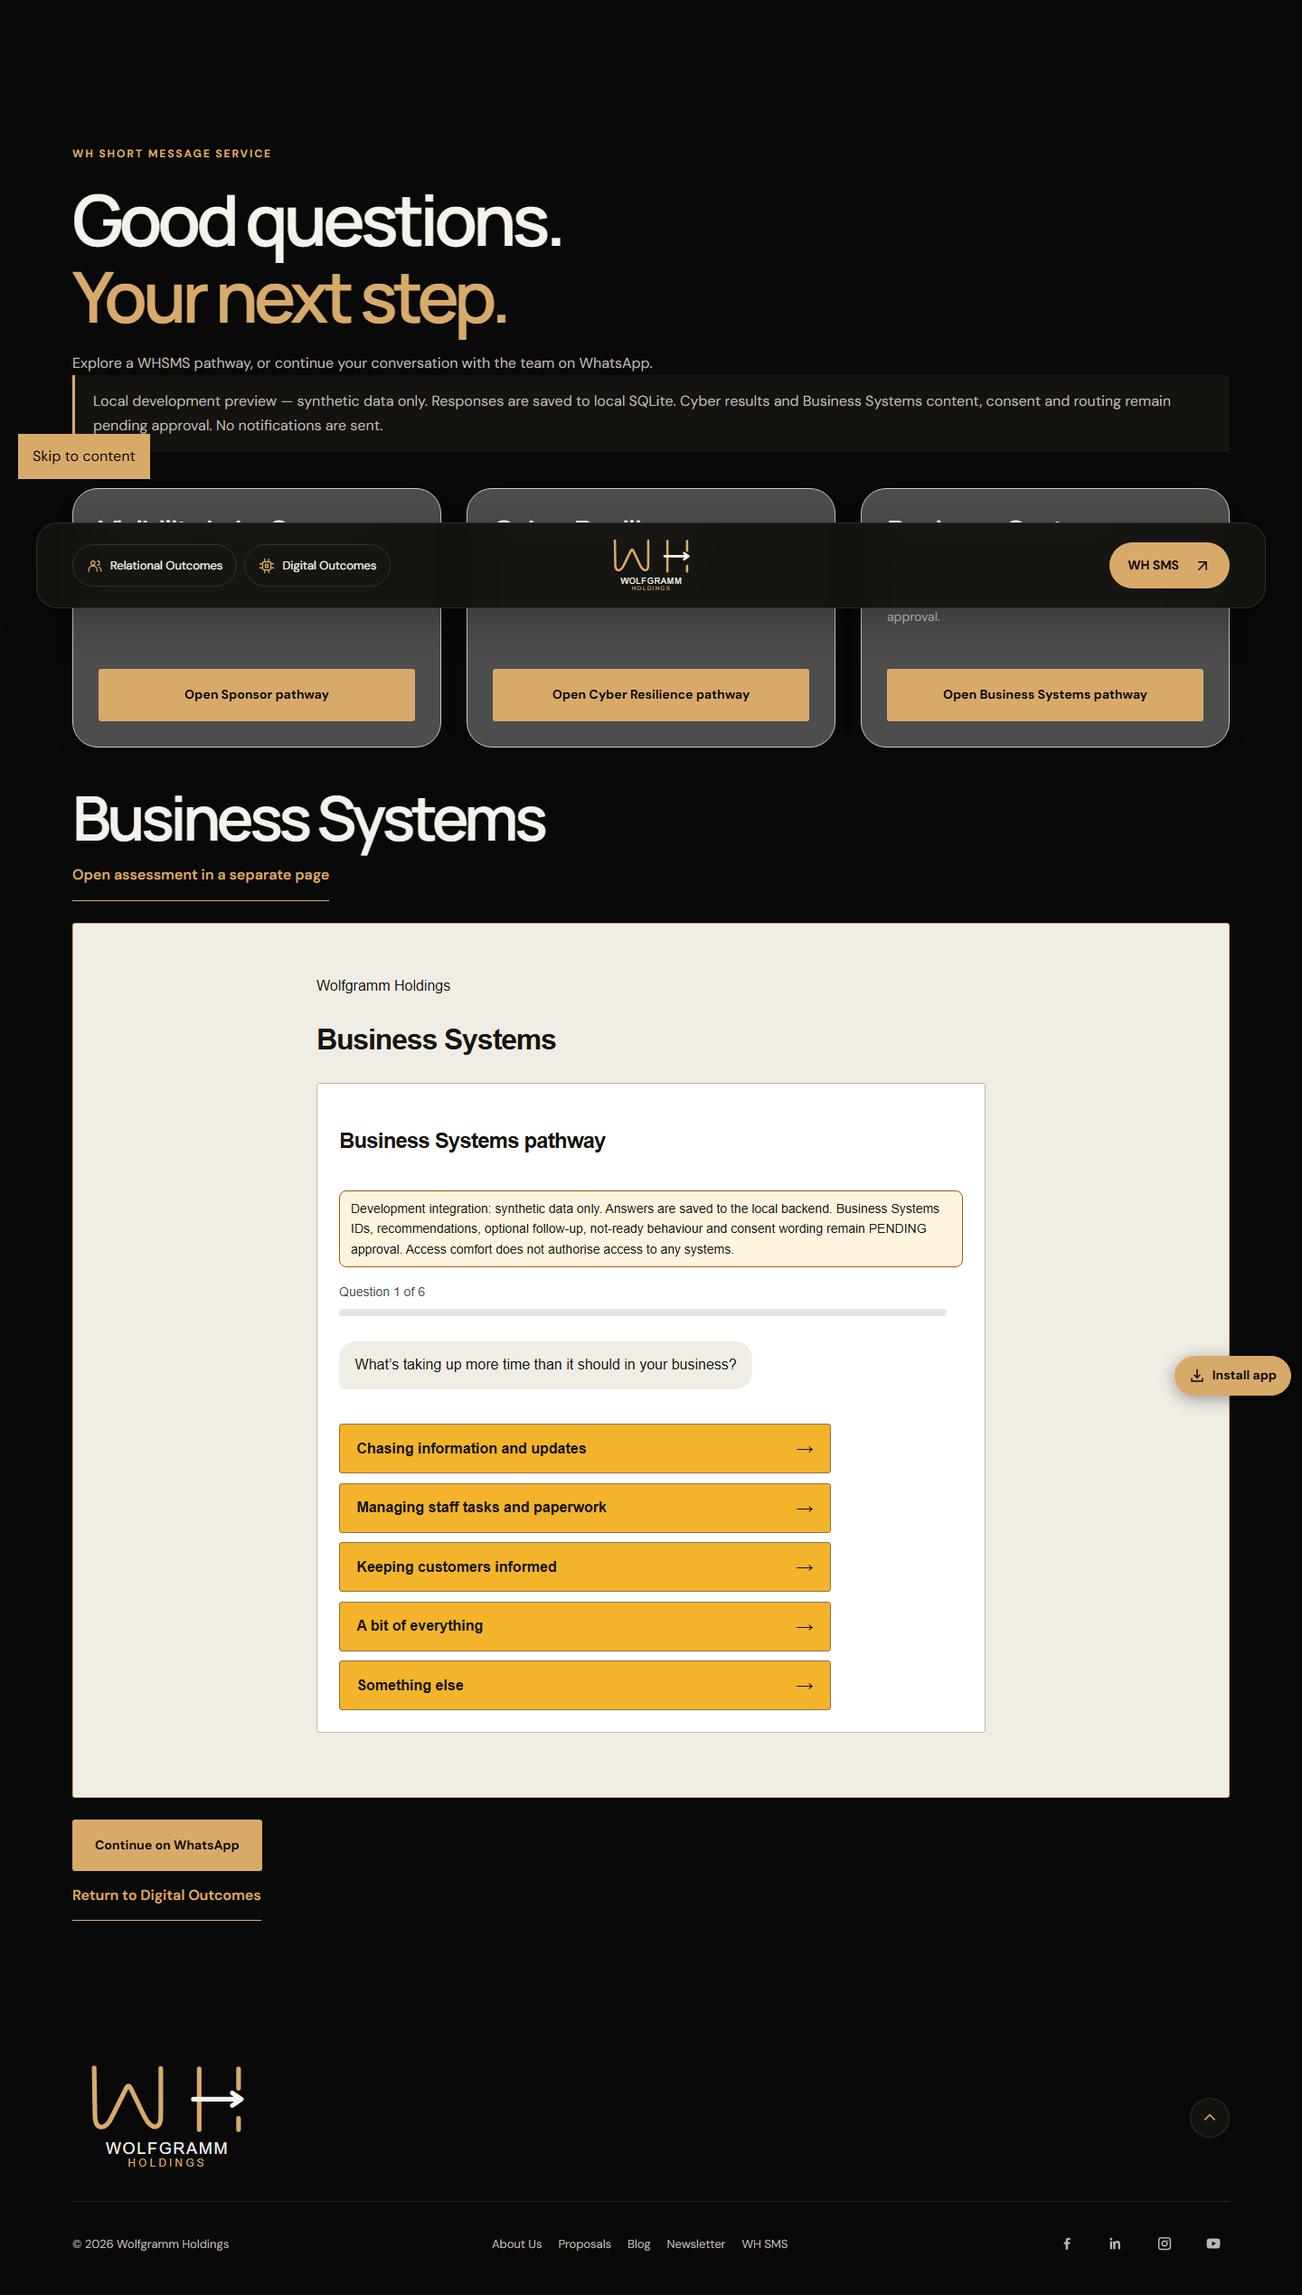
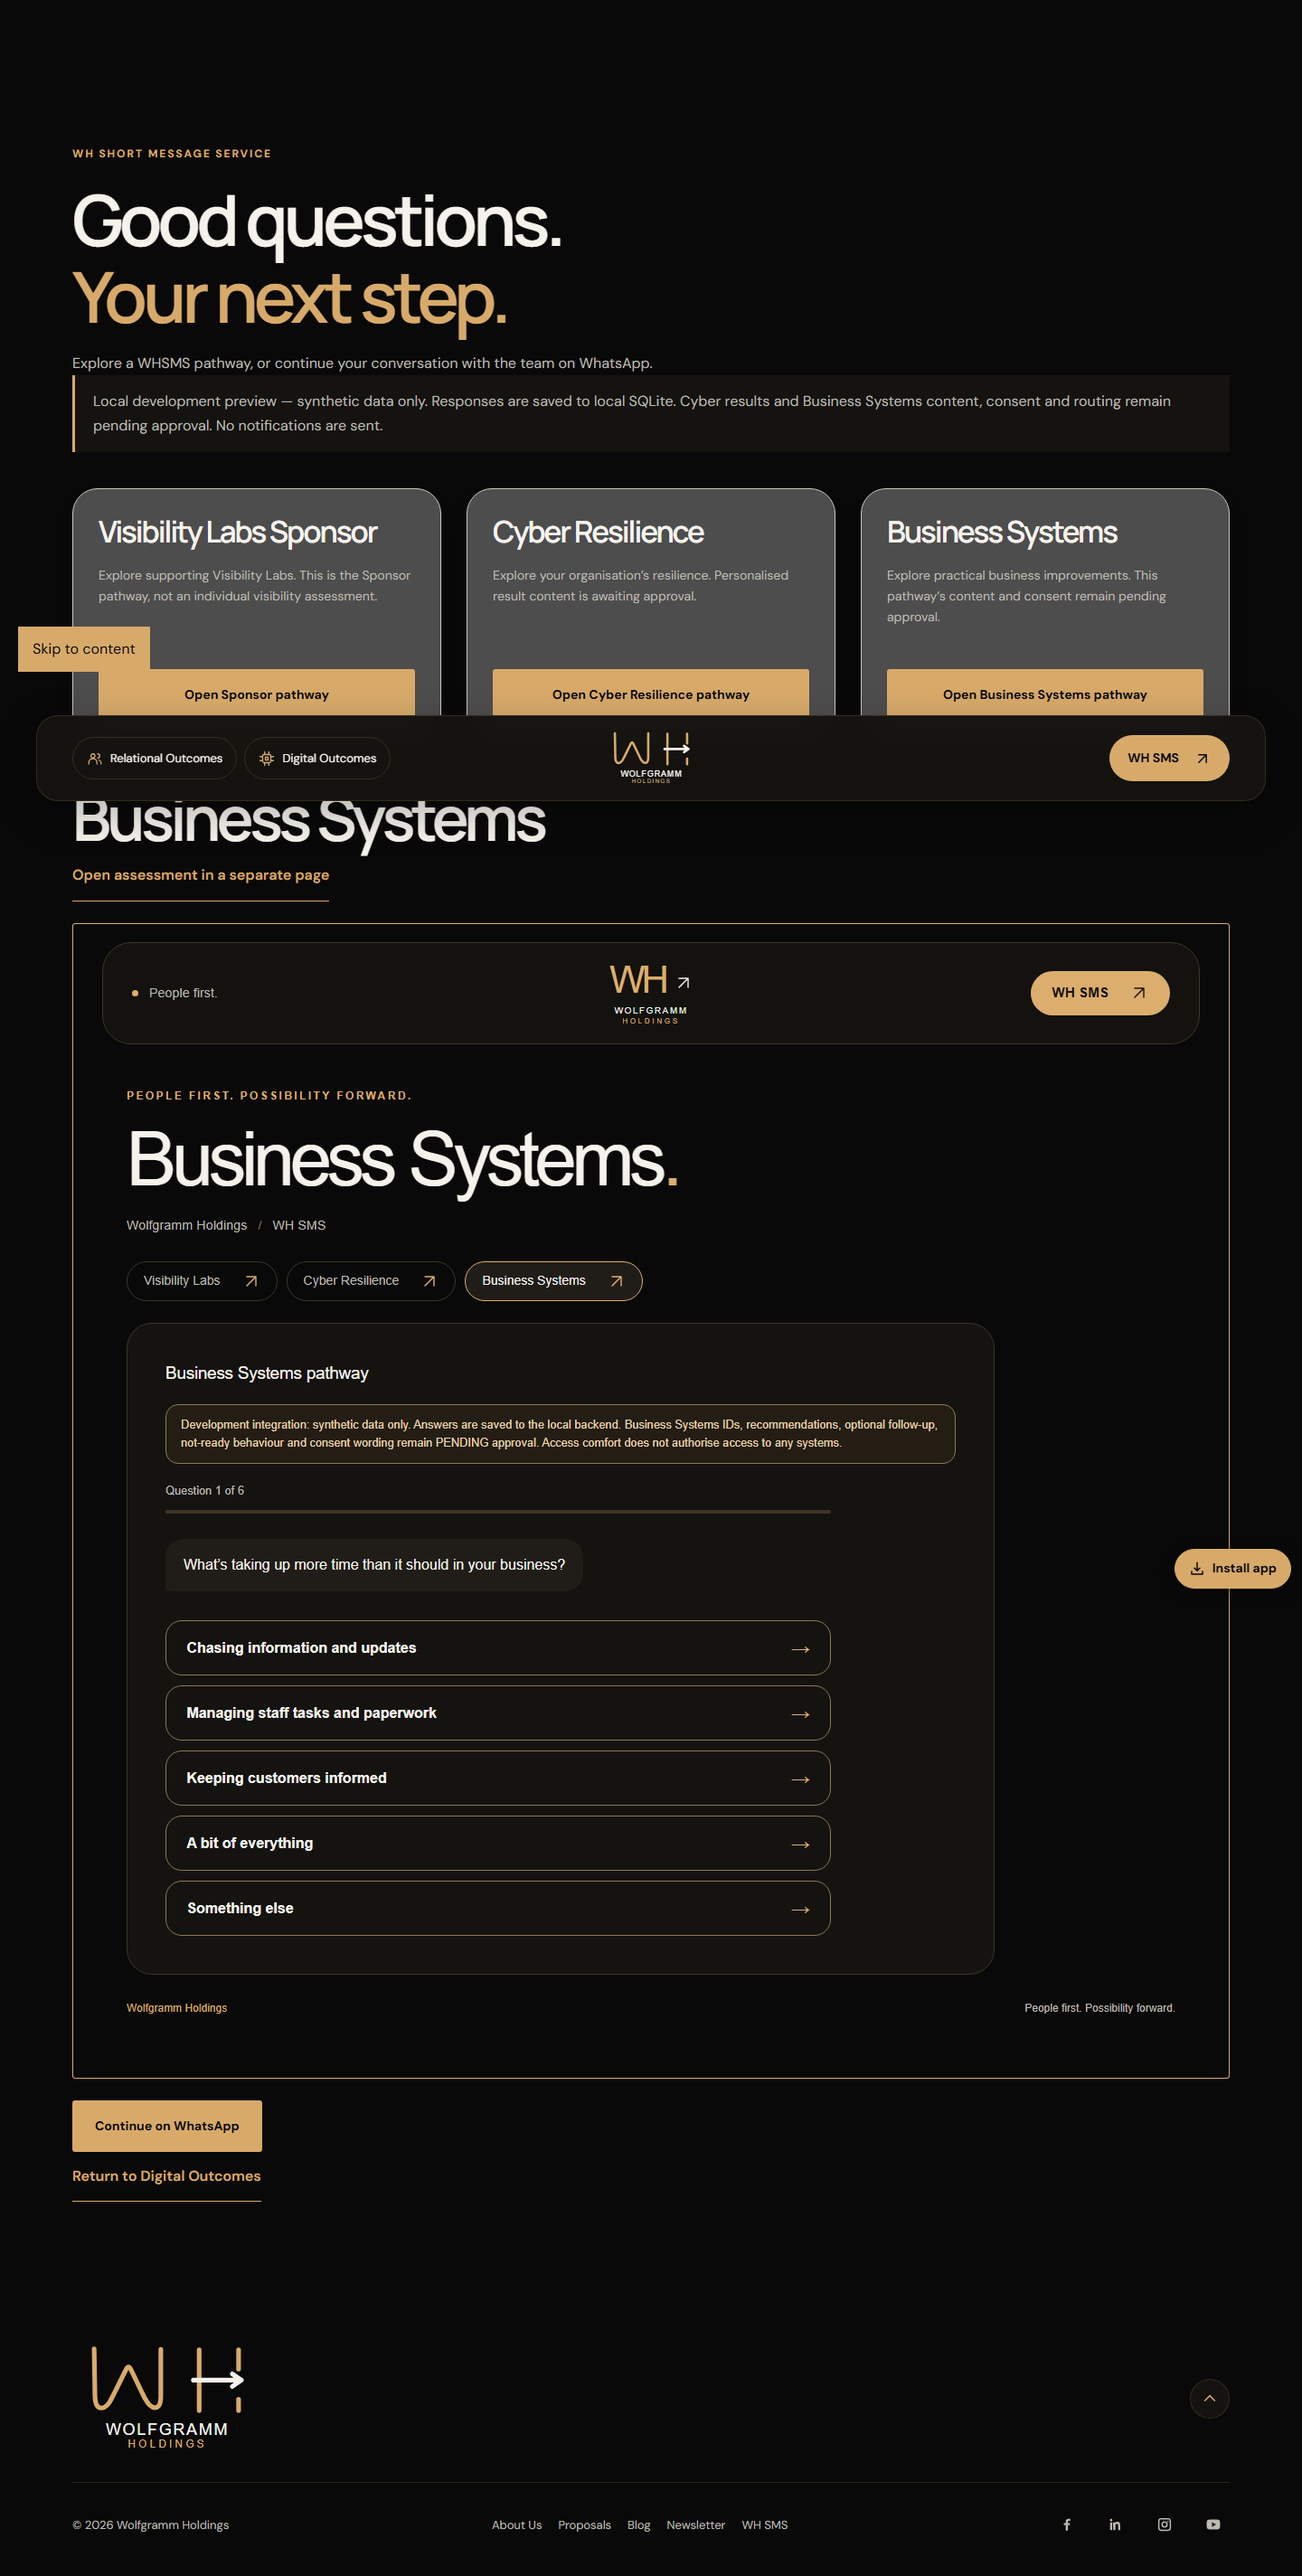
feat: complete website journeys through safe mock n8n and preserve dark gold theme

diff --git a/assessments/bridge.js b/assessments/bridge.js
@@ -28,14 +28,16 @@
     // Changing pathway must not silently discard in-memory answers.
     if (stage.childElementCount && !window.confirm('Changing pathways will clear answers in the current assessment. Continue?')) return;
     title.textContent = pathways[pathway];
-    status.textContent = development
+    const readyMessage = development
       ? 'Local development preview — synthetic data only. Responses are saved to local SQLite. Cyber results and Business Systems content, consent and routing remain pending approval. No notifications are sent.'
       : 'Complete the assessment below. Contact details are requested only according to the selected pathway.';
+    status.textContent = `Loading assessment… ${readyMessage}`;
     const frame = document.createElement('iframe');
     frame.title = `${pathways[pathway]} assessment`; frame.src = url.href;
     frame.referrerPolicy = 'no-referrer'; frame.setAttribute('sandbox', 'allow-scripts allow-same-origin allow-forms');
     frame.className = 'assessment-frame';
     activeFrame = frame; activeOrigin = url.origin;
+    frame.addEventListener('load', () => { if (activeFrame === frame) status.textContent = readyMessage; });
     frame.addEventListener('error', () => { status.textContent = 'The assessment could not load. Use the separate-page link or WhatsApp.'; });
     const fallback = document.createElement('a'); fallback.href = url.href; fallback.target = '_blank'; fallback.rel = 'noopener noreferrer';
     fallback.className = 'editorial-link'; fallback.textContent = 'Open assessment in a separate page';

diff --git a/tests/e2e/website-assessments.spec.js b/tests/e2e/website-assessments.spec.js
@@ -4,6 +4,7 @@ import { pathToFileURL } from 'node:url';
 import { DatabaseSync } from 'node:sqlite';
 const whsms = resolve(process.env.WHSMS_ROOT || '../whsms-website-host');
 const { pathways } = await import(pathToFileURL(resolve(whsms, 'frontend/src/config/pathways.js')).href);
+const { verifyWebsiteAutomation } = await import(pathToFileURL(resolve(whsms, 'tests/fixtures/verify-website-automation.mjs')).href);
 async function enter(page, pathway) {
   await page.goto('/digital/');
   await expect(page.locator('[data-wh-sms]').first()).toHaveAttribute('href', /^https:\/\/wa.me\//);
@@ -51,6 +52,8 @@ for (const pathway of ['sponsor', 'cyber-resilience', 'business-systems']) test(
     expect(row.submission_id).toBe(receipt.submissionId); expect(Number.isFinite(Date.parse(row.received_at))).toBe(true);
     expect(db.prepare('SELECT state FROM automation_outbox WHERE submission_id=?').get(row.submission_id).state).toBe('pending');
   } finally { db.close(); }
+  const automation = await verifyWebsiteAutomation(resolve(whsms, 'work/website-e2e.sqlite'), sent.metadata.sessionId);
+  expect(automation).toMatchObject({ mode: 'mock-n8n-code', delivered: 1, queueState: 'delivered', accepted: 1, intents: pathway === 'sponsor' ? 1 : 0, messages: pathway === 'sponsor' ? 1 : 0 });
   expect(await page.evaluate(() => document.documentElement.scrollWidth <= innerWidth)).toBe(true);
 });
 test('backend failure stays unsuccessful and retries keep the original session', async ({ page }) => {

diff --git a/docs/WHSMS_INTEGRATION.md b/docs/WHSMS_INTEGRATION.md
@@ -1,5 +1,37 @@
 # WFG → WHSMS website integration
 
+## Final integration update — 24 November 2026
+
+Collaborator push access is now verified. The current website branch is
+feature/whsms-integration in Jobandev/WFG; the earlier fork PR remains preserved.
+GitHub Pages was inspected: legacy publishing from main:/, HTTPS enforced. No main
+push or deployment occurred. Current companion: integration/website-backend-n8n,
+combining #34, #35 dark/gold theme and #36 host integration. The completed dark/gold
+theme is preserved; the earlier optional ivory override has been removed.
+
+Website E2E now goes beyond receipt persistence: it runs the actual queued event
+through a local mock of the generated n8n Code contract, durable acceptance gateway
+and fake staff notification. All three services are tested on desktop/mobile;
+Sponsor creates one mock notification, assessment-only Cyber/Business create none.
+Business production acceptance and notification routing remain disabled.
+
+After submitting synthetic forms, run the safe bounded workflow preview from WFG:
+
+```powershell
+$env:LOCAL_WORKFLOW_RUN = 'synthetic-only'
+$env:SUBMISSIONS_DB_PATH = (Resolve-Path '../whsms-website-host/work/website-preview.sqlite').Path
+npm --prefix ../whsms-website-host/backend run workflow:preview -- --limit 10
+```
+
+This uses only ephemeral loopback mock services; it does not activate n8n or send
+email. The corrected inactive n8n JSON, 25-node audit, compatibility matrix, credential
+setup and production gates live only in the private WHSMS repository. See its
+FINAL_INTEGRATION_HANDOVER.md and docs/architecture/n8n-workflow-compatibility.md.
+Actual n8n import/SMTP/gateway hosting still require approved staging access.
+
+The historical fork/baseline notes below explain the earlier review stage; use the
+new direct website branch and final companion integration branch for release review.
+
 ## Architecture and repository boundaries
 
 Website baseline: Jobandev/WFG main ee4f02c. Application baseline: WHSMS PR #34,

diff --git a/docs/TEST_EVIDENCE.md b/docs/TEST_EVIDENCE.md
@@ -1,5 +1,13 @@
 # Website integration test evidence — 24 November 2026
 
+Final integration update: the backend combines #35's dark/gold theme and portable
+Windows tests. The old Windows backup failures below are historical, not current.
+The current full local suites pass: backend 225, frontend 87, assessment browser 38.
+Website browser tests remain 14 and now also dispatch each actual persisted job
+through generated n8n validation Code, a real local durable gateway and fake staff
+notification. Accepted counts remain one across replay; assessment-only Cyber and
+Business produce zero mock notifications. These are local mocks, not an n8n engine.
+
 An initial public-fork CI run failed before tests because WHSMS is private and the
 public repository token cannot check it out. Remediation keeps only preservation
 tests in public CI and runs full E2E in WHSMS private CI against a pinned website
